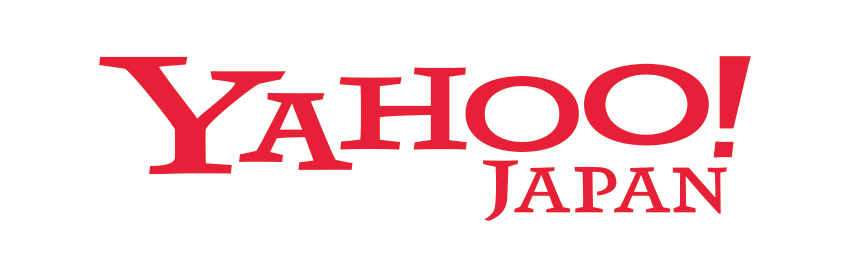
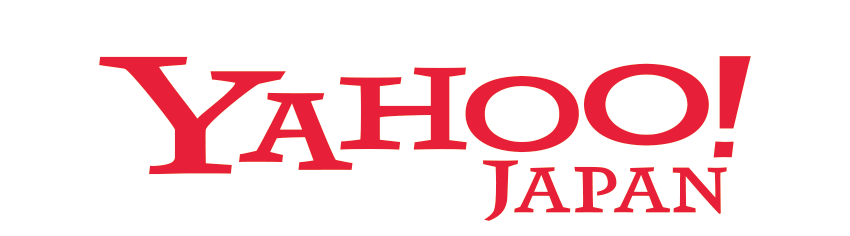
add Yahoo Japan and Hitachi, and change style

Changed region(s): [[0.0918, 0.178, 0.8871, 0.9492]]

diff --git a/_includes/sponsors.html b/_includes/sponsors.html
@@ -1,29 +1,29 @@
 <!--<section class="iswc-ads">-->
 <h4>Sponsors</h4>
+
+<!-- ######################  PLATINUM ###################### -->
+
+
 <h4 style="color:#697998; font-size:1.5em"><strong>Platinum Sponsors</strong></h4>
 <div class="iswc-ads-items">
-	<div class="panel panel-default">
-	  <div class="panel-body allign-center">
+	<div class="panel panel-default" style="border:3px solid #697998; border-width: 3px 1px;">
+	  <div class="panel-body allign-center" style="padding: 30px 15px; max-width:350px;">
 		<a target="_blank" href="http://semanticsoftware.com/">
-			<div>
-				<img alt="Semantic Software" src="{{ site.baseurl }}/images/sponsors/semantic-software.jpg" width="100%"/>
-			</div>
+			<img alt="Semantic Software" src="{{ site.baseurl }}/images/sponsors/semantic-software.jpg" width="98%"/>
 		</a>
 		
 	  </div>
 	</div>
 </div>
 	
-	<!-- ------------------------------ -->
+<!-- ######################  GOLD ###################### -->
 
 <h4 style="color:#aa6708"><strong>Gold Sponsors</strong></h4>
 <div class="iswc-ads-items">
-	<div class="panel panel-default">
+	<div class="panel panel-default" style="border:1px solid #aa6708">
 	  <div class="panel-body allign-center">
 		<a target="_blank" href="http://www.nttr.co.jp/english/">
-			<div>
-				<img src="{{ site.baseurl }}/images/sponsors/nttr.png" width="35%"/>
-			</div>
+			<img src="{{ site.baseurl }}/images/sponsors/nttr.png" width="50%"/>
 			<div alt="NTT Resonant" style="margin-top:10px;color:black">NTT Resonant</div>
 		</a>
 		
@@ -33,7 +33,34 @@
 
 	<!-- ------------------------------ -->
 
+<div class="iswc-ads-items">
+	<div class="panel panel-default"  style="border:1px solid #aa6708">
+	  <div class="panel-body allign-center">
+		<aa target="_blank" href="http://www.hitachi.com/">
+			<img src="{{ site.baseurl }}/images/sponsors/hitachi.png" width="85%"/>
+		</aa>
+		
+	  </div>
+	</div>
+</div>
 
-<!-- <h4 style="color:#888">Silver Sponsors</h4> -->
+<!-- ######################  SILVER ###################### -->
+<h4 style="color:#888">Silver Sponsors</h4> 
+
+<div class="iswc-ads-items">
+	<div class="panel panel-default" >
+	  <div class="panel-body allign-center" style="padding:2px;">
+		<a target="_blank" href="http://www.yahoo.co.jp/">
+			<img src="{{ site.baseurl }}/images/sponsors/yahoo-japan.png" width="100%"/>
+		</a>
+		
+	  </div>
+	</div>
+</div>
+
+
+
+
+	<!-- ------------------------------ -->
 
 <!--</section>-->

diff --git a/_includes/organizers.html b/_includes/organizers.html
@@ -2,18 +2,18 @@
 <h4>Organizers</h4>
 
 <div class="iswc-ads-items">
-	<div class="panel panel-default">
-	  <div class="panel-body">
+	<div class="panel panel-default allign-center">
+	  <div class="panel-body allign-center">
 		<a target="_blank" href="http://swsa.semanticweb.org">
-			<img src="{{ site.baseurl }}/images/organizers/sawa.png" width="100%"/>
+			<img src="{{ site.baseurl }}/images/organizers/sawa.png" width="250px"/>
 		</a>
 	  </div>
 	</div>
 
-	<div class="panel panel-default">
-	  <div class="panel-body">
+	<div class="panel panel-default allign-center">
+	  <div class="panel-body allign-center">
 		<a target="_blank" href="http://linkedopendata.jp/?page_id=267">
-			<img src="{{ site.baseurl }}/images/organizers/lodi.png" width="100%"/>
+			<img src="{{ site.baseurl }}/images/organizers/lodi.png" width="250px"/>
 		</a>
 	  </div>
 	</div>

diff --git a/css/iswc.css b/css/iswc.css
@@ -343,6 +343,12 @@ section.iswc-ads div.iswc-ads-items div.panel{
 	vertical-align:middle;
 }
 
+div.iswc-ads-items .panel-body{
+	max-width: 300px;
+	margin-left: auto;
+	margin-right: auto;
+}
+
 footer{
 	/* background: -webkit-linear-gradient(#ddd,#eee,#fff,#fff,#fff); /* For Safari 5.1 to 6.0 */
   	/* background: -o-linear-gradient(#ddd,#eee,#fff,#fff,#fff); /* For Opera 11.1 to 12.0 */
